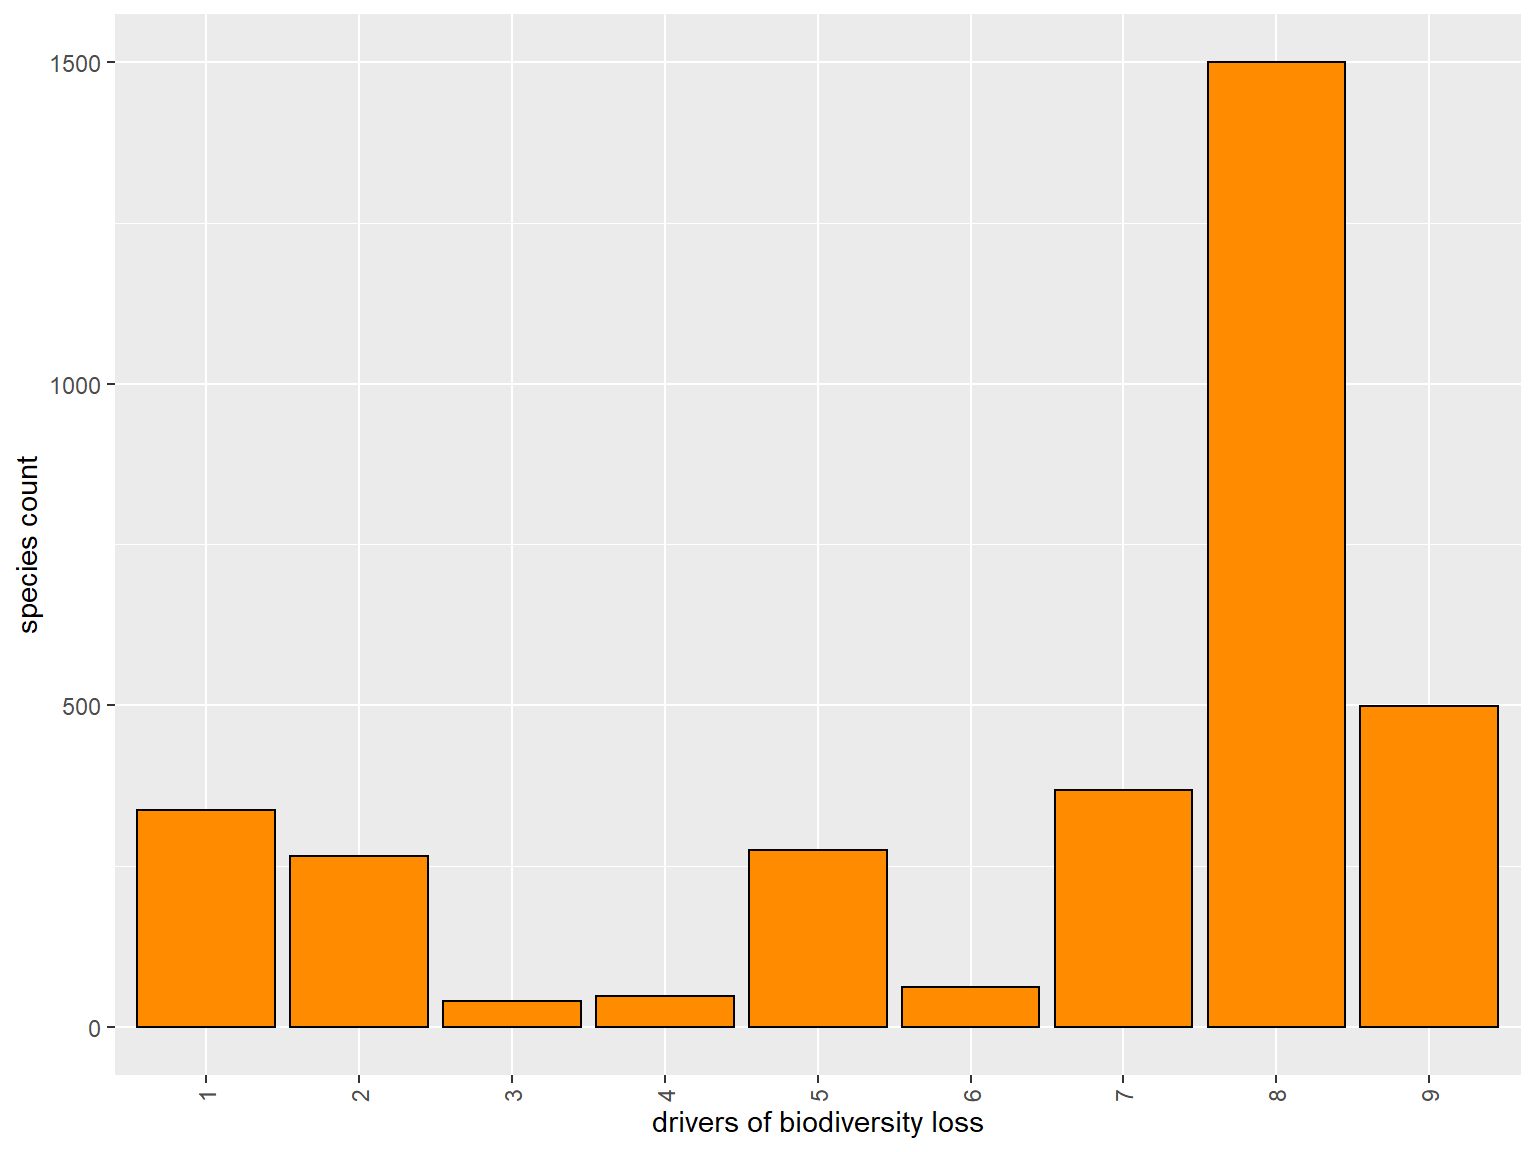
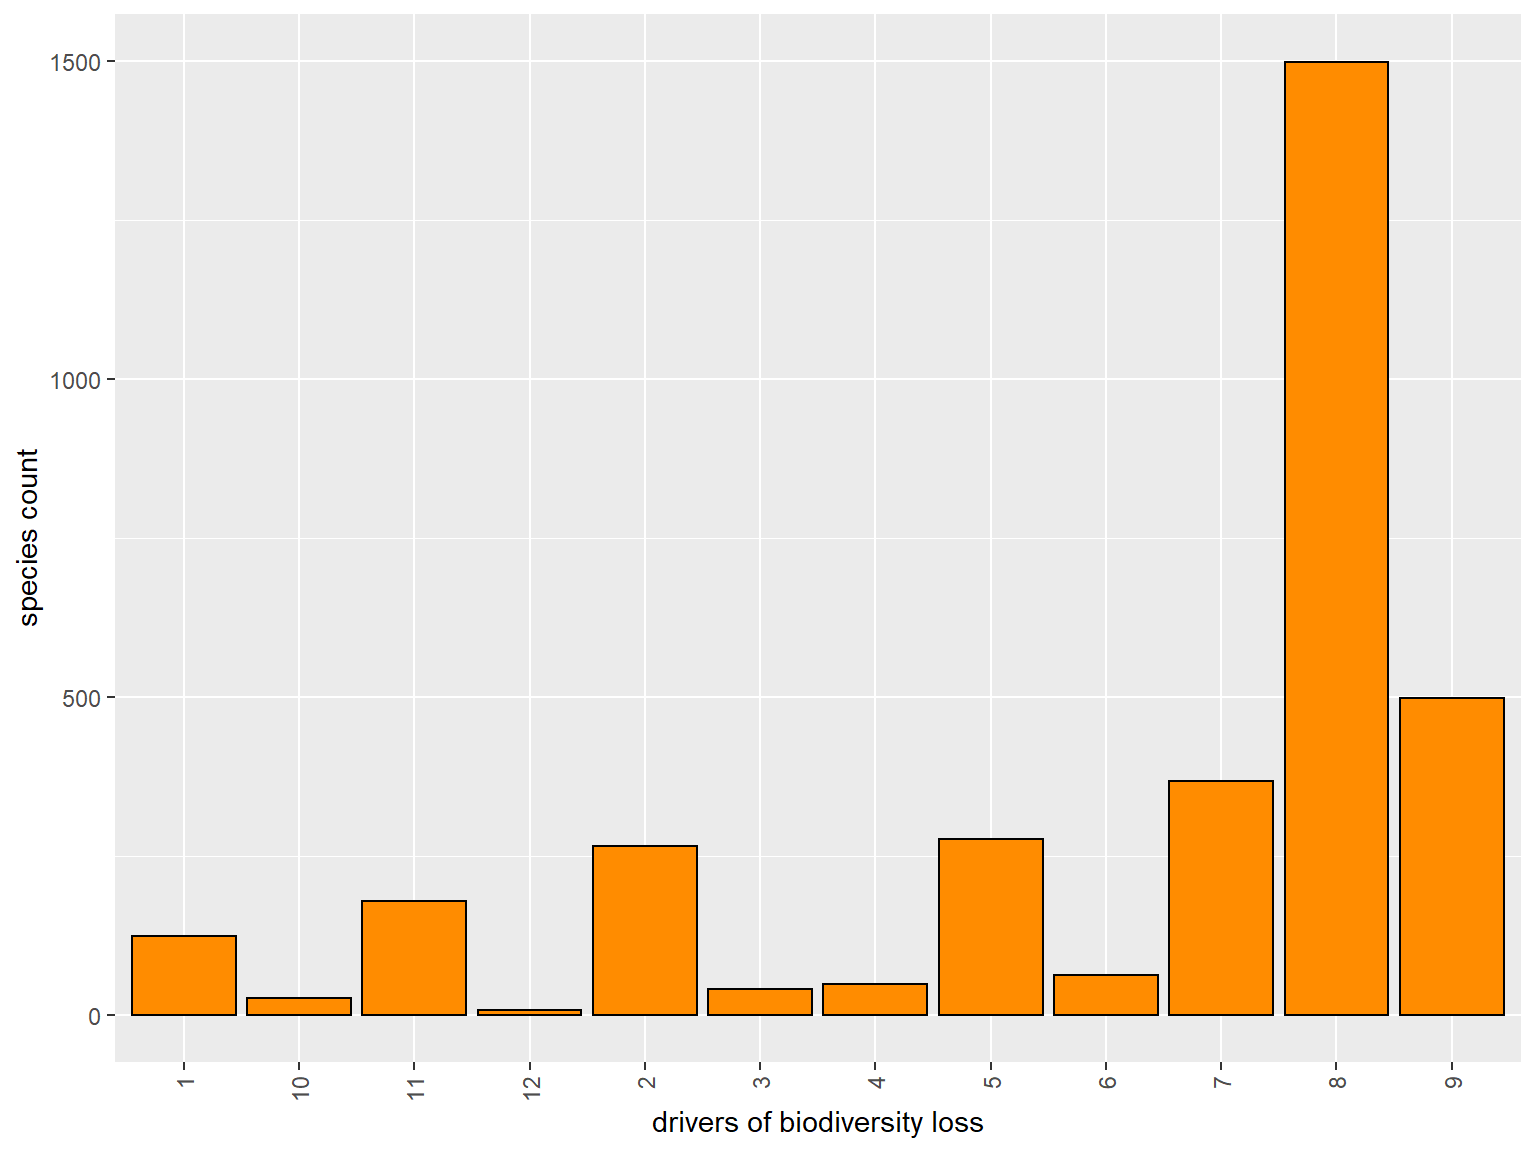
update code chunk

diff --git a/_book/iucn-redlist-evaluation.html b/_book/iucn-redlist-evaluation.html
@@ -147,6 +147,7 @@ if(f.classList.contains('fa-plus-square')) {
 <li class="toc"><a href="#threats-drivers-of-loss-to-biodiversity"> Threats (Drivers of loss) to Biodiversity</a></li>
 <li class="toc"><a href="#local-and-global-comparisons-of-conservation-status-and-threats-to-biodiversity"> Local and global comparisons of conservation status and threats to biodiversity</a></li>
 </ul>
+<a href="bioindicators-for-pollution.html"><span class="toc-section-number">8</span> Bioindicators for pollution</a>
 <a href="references.html">References</a>
 </div>
 </li>
@@ -744,9 +745,9 @@ Some advice<span id="sol-start-3" class="fa fa-plus-square solution-icon clickab
 <span id="cb30-2"><a href="iucn-redlist-evaluation.html#cb30-2"></a><span class="kw">rl_regions</span>(<span class="dt">key =</span> rlkey)<span class="op">$</span>results</span></code></pre></div>
 <pre><code>##                   name          identifier
 ## 1  Northeastern Africa northeastern_africa
-## 2       Eastern Africa      eastern_africa
-## 3       Western Africa      western_africa
-## 4               Global              global
+## 2               Global              global
+## 3       Eastern Africa      eastern_africa
+## 4       Western Africa      western_africa
 ## 5      Northern Africa     northern_africa
 ## 6       Central Africa      central_africa
 ## 7           Pan-Africa          pan-africa
@@ -1082,12 +1083,12 @@ Decide whether you think the species counts or proportion of species in each cou
 <p>Remember, the drivers of biodiversity loss are categorized in one of twelve <a href="https://www.iucnredlist.org/resources/threat-classification-scheme">categories</a>.</p>
 <p>It is probably sufficient that we only retain information to place them in those major categories. We can do this using the function <code>substr()</code> which allows us to keep only the first character in the code column; then we can count the number of species in each category and use a barplot to visualize the data.</p>
 <div class="sourceCode" id="cb44"><pre class="sourceCode r"><code class="sourceCode r"><span id="cb44-1"><a href="iucn-redlist-evaluation.html#cb44-1"></a>threat &lt;-<span class="st"> </span>threat <span class="op">%&gt;%</span></span>
-<span id="cb44-2"><a href="iucn-redlist-evaluation.html#cb44-2"></a><span class="st">  </span><span class="kw">mutate</span>(<span class="dt">code =</span> <span class="kw">substr</span>(code, <span class="dv">1</span>, <span class="dv">1</span>)) <span class="op">%&gt;%</span></span>
-<span id="cb44-3"><a href="iucn-redlist-evaluation.html#cb44-3"></a><span class="st">  </span><span class="kw">group_by</span>(code) <span class="op">%&gt;%</span></span>
-<span id="cb44-4"><a href="iucn-redlist-evaluation.html#cb44-4"></a><span class="st">  </span><span class="kw">summarize</span>(<span class="dt">species_count =</span> <span class="kw">n</span>()) <span class="op">%&gt;%</span></span>
-<span id="cb44-5"><a href="iucn-redlist-evaluation.html#cb44-5"></a><span class="st">  </span><span class="kw">ungroup</span>()</span>
-<span id="cb44-6"><a href="iucn-redlist-evaluation.html#cb44-6"></a></span>
-<span id="cb44-7"><a href="iucn-redlist-evaluation.html#cb44-7"></a><span class="kw">ggplot</span>(threat, <span class="kw">aes</span>(<span class="dt">x =</span> code, <span class="dt">y =</span> species_count)) <span class="op">+</span></span>
+<span id="cb44-2"><a href="iucn-redlist-evaluation.html#cb44-2"></a><span class="st">  </span><span class="kw">separate</span>(code, <span class="dt">into =</span> <span class="kw">c</span>(<span class="st">"major_cat"</span>, <span class="st">"subcat-1"</span>, <span class="st">"subcat-2"</span>), <span class="dt">extra =</span> <span class="st">"merge"</span>,</span>
+<span id="cb44-3"><a href="iucn-redlist-evaluation.html#cb44-3"></a>           <span class="dt">sep =</span> <span class="st">"</span><span class="ch">\\</span><span class="st">."</span>, <span class="dt">remove =</span> <span class="ot">FALSE</span>) <span class="op">%&gt;%</span></span>
+<span id="cb44-4"><a href="iucn-redlist-evaluation.html#cb44-4"></a><span class="st">  </span><span class="kw">group_by</span>(major_cat) <span class="op">%&gt;%</span></span>
+<span id="cb44-5"><a href="iucn-redlist-evaluation.html#cb44-5"></a><span class="st">  </span><span class="kw">summarize</span>(<span class="dt">species_count =</span> <span class="kw">n</span>()) <span class="op">%&gt;%</span></span>
+<span id="cb44-6"><a href="iucn-redlist-evaluation.html#cb44-6"></a><span class="st">  </span><span class="kw">ungroup</span>()</span>
+<span id="cb44-7"><a href="iucn-redlist-evaluation.html#cb44-7"></a><span class="kw">ggplot</span>(threat, <span class="kw">aes</span>(<span class="dt">x =</span> major_cat, <span class="dt">y =</span> species_count)) <span class="op">+</span></span>
 <span id="cb44-8"><a href="iucn-redlist-evaluation.html#cb44-8"></a><span class="st">  </span><span class="kw">geom_bar</span>(<span class="dt">stat =</span> <span class="st">"identity"</span>, <span class="dt">color =</span> <span class="st">"black"</span>, <span class="dt">fill =</span> <span class="st">"darkorange"</span>) <span class="op">+</span></span>
 <span id="cb44-9"><a href="iucn-redlist-evaluation.html#cb44-9"></a><span class="st">  </span><span class="kw">labs</span>(<span class="dt">x =</span> <span class="st">"drivers of biodiversity loss"</span>, <span class="dt">y =</span> <span class="st">"species count"</span>) <span class="op">+</span></span>
 <span id="cb44-10"><a href="iucn-redlist-evaluation.html#cb44-10"></a><span class="st">  </span><span class="kw">theme</span>(<span class="dt">axis.text.x =</span> <span class="kw">element_text</span>(<span class="dt">angle =</span> <span class="dv">90</span>, <span class="dt">vjust =</span> <span class="fl">0.5</span>, <span class="dt">hjust=</span><span class="dv">1</span>))</span></code></pre></div>
@@ -1134,7 +1135,7 @@ Summarize and visualize the data as above, then descibe and compare your results
 
 <p style="text-align: center;">
 <a href="island-biogeography.html"><button class="btn btn-default">Previous</button></a>
-<a href="references.html"><button class="btn btn-default">Next</button></a>
+<a href="bioindicators-for-pollution.html"><button class="btn btn-default">Next</button></a>
 </p>
 <p class="build-date">Page built: 
 2020-09-16
